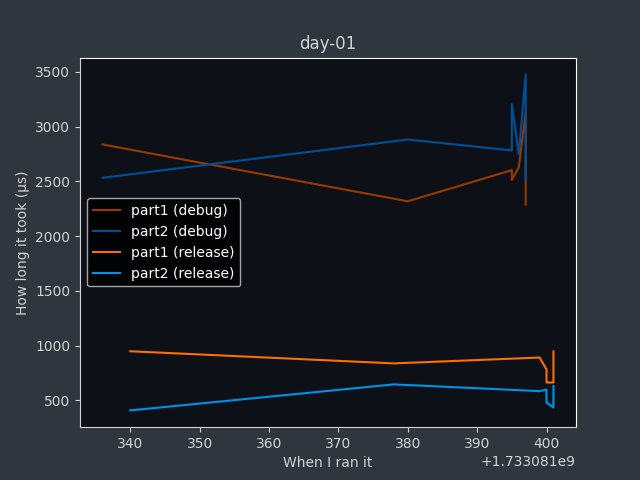
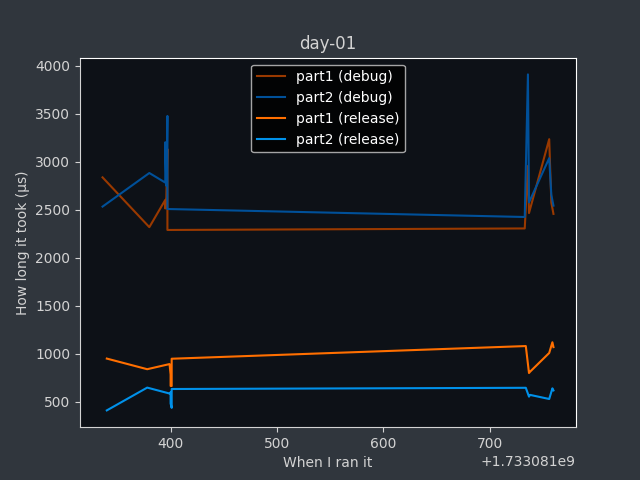
parallelize day 1

diff --git a/2024/day-01/src/main.rs b/2024/day-01/src/main.rs
@@ -2,7 +2,7 @@ use std::collections::HashMap;
 
 use common::prelude::*;
 use itertools::Itertools;
-use rayon::iter::ParallelIterator;
+use rayon::iter::{IndexedParallelIterator, IntoParallelRefIterator, ParallelIterator};
 use rayon::str::ParallelString;
 
 fn main() {
@@ -13,8 +13,8 @@ fn main() {
     println!("Part 2: {}", result);
 }
 
-fn part1(input: &str) -> usize {
-    let mut columns: (Vec<usize>, Vec<usize>) = input
+fn get_columns(input: &str) -> (Vec<usize>, Vec<usize>) {
+    input
         .par_lines()
         .map(|line| {
             let numbers = line
@@ -23,35 +23,27 @@ fn part1(input: &str) -> usize {
                 .collect_vec();
             (numbers[0], numbers[1])
         })
-        .unzip();
-    columns.0.sort();
-    columns.1.sort();
-    columns
-        .0
-        .iter()
-        .zip(columns.1.iter())
+        .unzip()
+}
+
+fn part1(input: &str) -> usize {
+    let (mut left, mut right) = get_columns(input);
+    left.sort();
+    right.sort();
+    left.par_iter()
+        .zip(right.par_iter())
         .map(|(a, b)| (*a as isize - *b as isize).abs() as usize)
         .sum()
 }
 
 fn part2(input: &str) -> usize {
-    let mut columns: (Vec<usize>, Vec<usize>) = input
-        .par_lines()
-        .map(|line| {
-            let numbers = line
-                .split_whitespace()
-                .map(|s| s.parse::<usize>().unwrap())
-                .collect_vec();
-            (numbers[0], numbers[1])
-        })
-        .unzip();
-    let left_counts: HashMap<usize, usize> = columns.0.into_iter().counts();
-    let right_counts: HashMap<usize, usize> = columns.1.into_iter().counts();
-    let mut result = 0;
-    for (number, left_count) in left_counts.iter() {
-        result += left_count * number * right_counts.get(number).unwrap_or(&0);
-    }
-    result
+    let (left, right) = get_columns(input);
+    let left_counts: HashMap<usize, usize> = left.into_iter().counts();
+    let right_counts: HashMap<usize, usize> = right.into_iter().counts();
+    left_counts
+        .par_iter()
+        .map(|(number, left_count)| left_count * number * right_counts.get(&number).unwrap_or(&0))
+        .sum()
 }
 
 #[cfg(test)]

diff --git a/2024/README.md b/2024/README.md
@@ -6,5 +6,5 @@
 
 | Mode | Part 1 | Part 2 |
 |--------|--------|--------|
-| Debug | 2.29 ms | 2.51 ms |
-| Release | 946.80 µs | 631.30 µs |
+| Debug | 2.46 ms | 2.54 ms |
+| Release | 1.07 ms | 616.40 µs |
